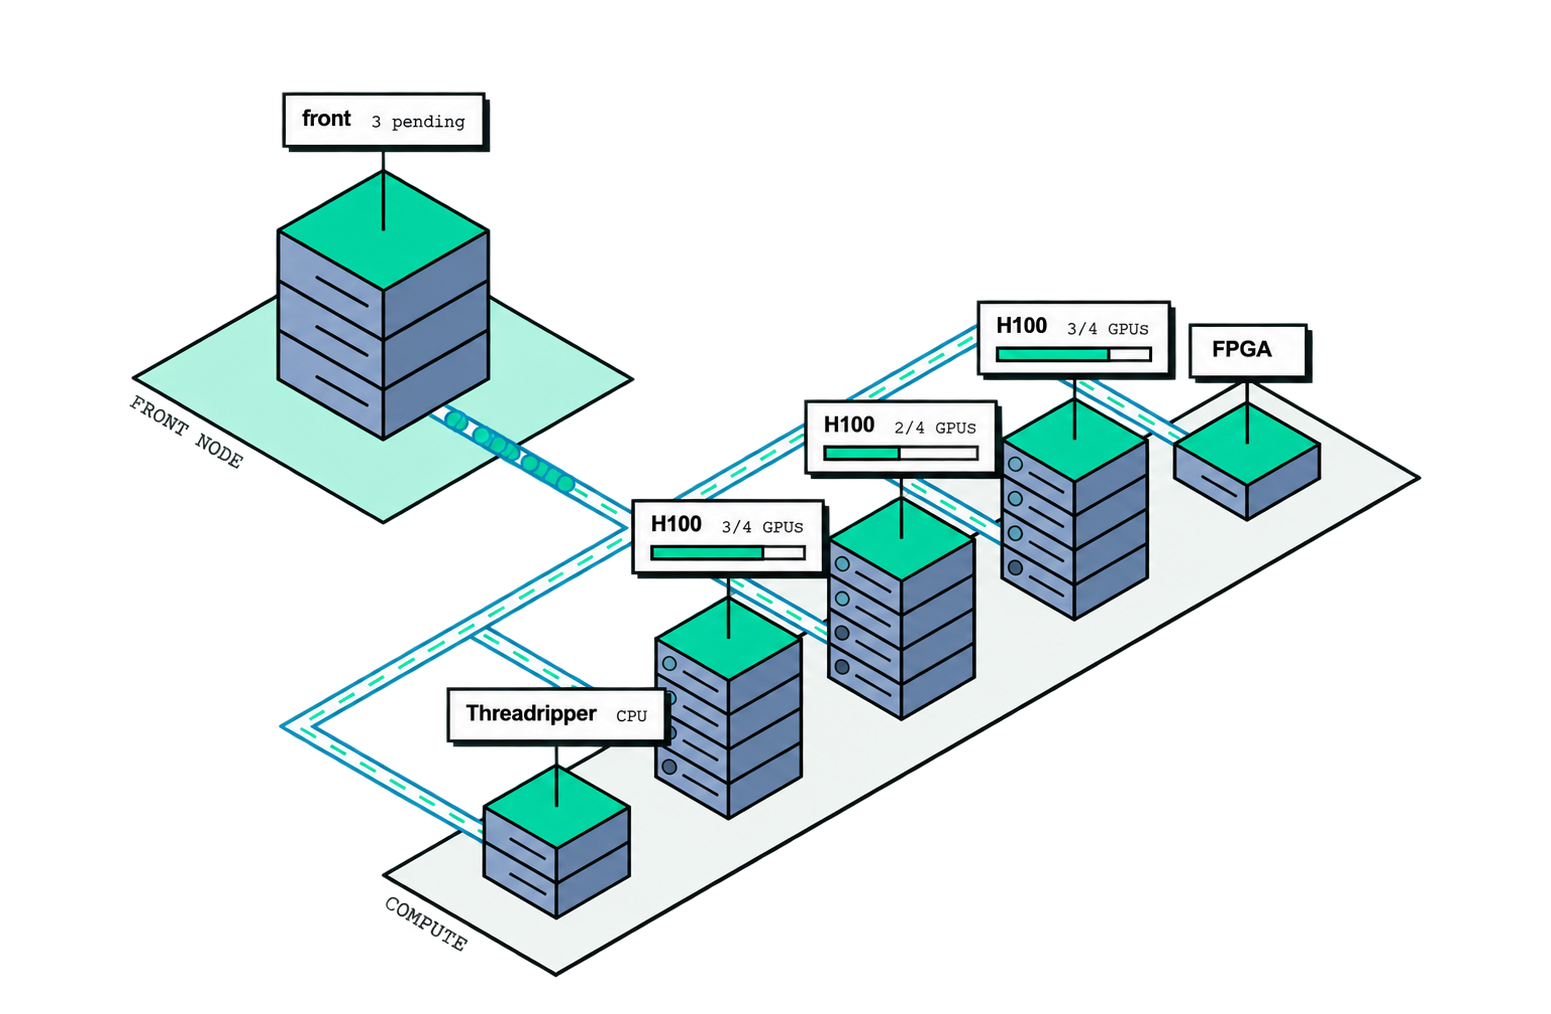
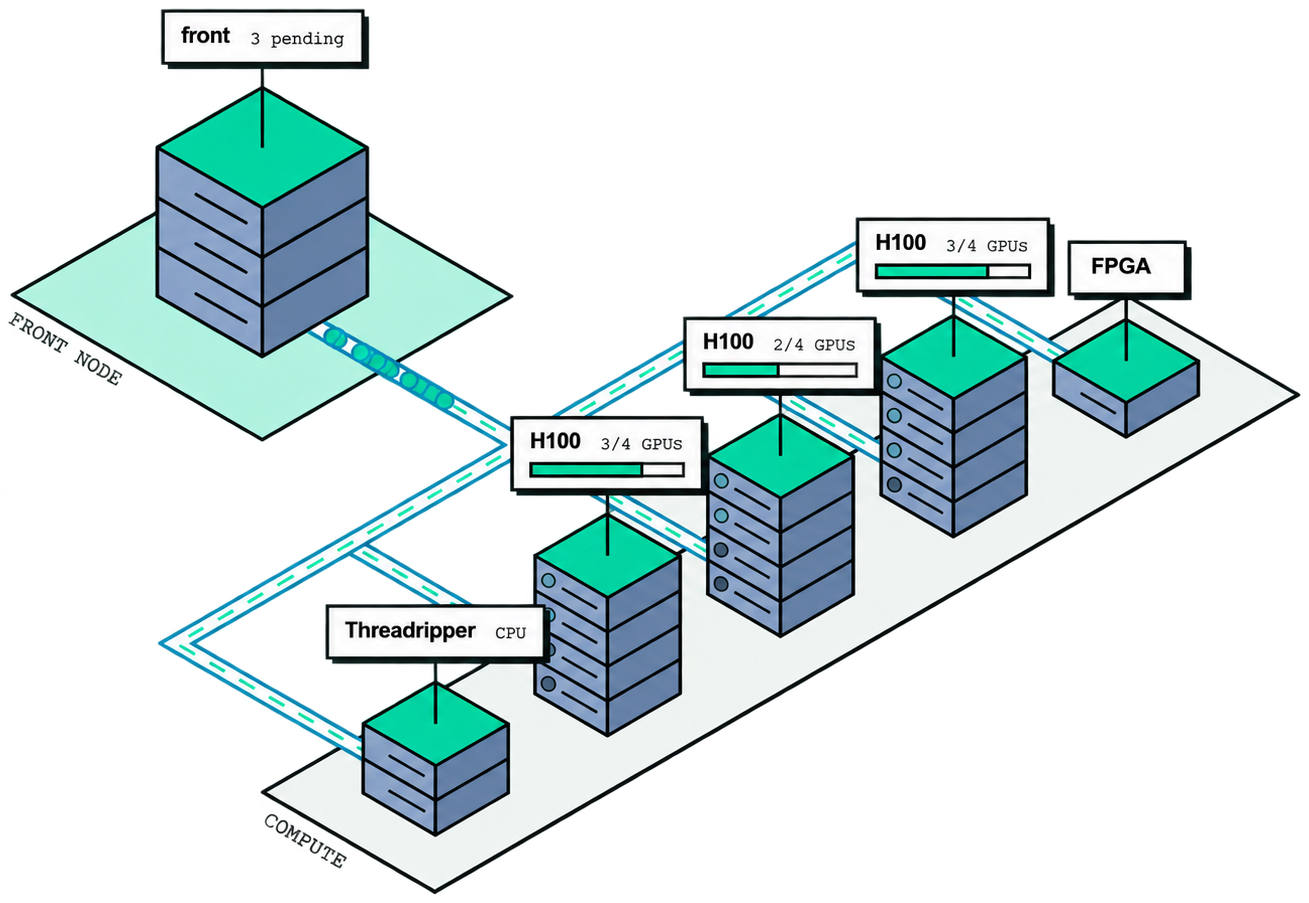
Move cluster image below README features
- Add the real-time isometric topology feature bullet
- Place the cropped transparent cluster image before Set up
- Update the completed README note

diff --git a/README.md b/README.md
@@ -2,10 +2,6 @@
   <img src="assets/nanohpc-title.svg" alt="nanoHPC" width="420">
 </p>
 
-<p align="center">
-  <img src="assets/cluster.png" alt="Cluster map with Threadripper, three 4-GPU H100 machines, and FPGA, connected by turquoise pipes" width="640">
-</p>
-
 `nanoHPC` is a lightweight Slurm cluster and monitoring tool for small computational labs.
 
 The whole cluster is defined in a single file, `cluster.yml` (the machines, the users, the partitions, and the queue
@@ -18,6 +14,8 @@ policy), and one command sets up every machine.
 - Playbooks for setup, node changes, policy updates, and nightly `/home` backups, with a dry run before each deploy.
 - Shared `/home` and local scratch, with optional copy-back of job results.
 - Optional Slack notifications when checks, backups, or automatic deploys fail, and when checks recover.
+- Isometric visualisation of the cluster topology in real time:<br>
+  <img src="assets/cluster.png" alt="Cluster map with Threadripper, three 4-GPU H100 machines, and FPGA, connected by turquoise pipes" width="520">
 
 ## Set up
 

diff --git a/md/DONE.md b/md/DONE.md
@@ -137,7 +137,7 @@ Archive of completed `TODO.md` items: what was built and the key files touched.
 
 ## 2026-10-04: README feature descriptions
 
-- Rewrote Features as seven short bullets, without bold lead-ins: one `cluster.yml`, Slurm scheduling, the front-end monitor, health checks, playbooks for cluster changes and backups, shared and scratch storage, and Slack notifications.
+- Rewrote Features as eight short bullets, without bold lead-ins: one `cluster.yml`, Slurm scheduling, the front-end monitor, health checks, playbooks for cluster changes and backups, shared and scratch storage, Slack notifications, and an isometric cluster view. The cluster image follows the last bullet, before Set up.
 - Checked the claims against `PROJECT.md` and `TODO.md`; the text describes supported policy changes without claiming system package updates.
 - File: `README.md`.
 
